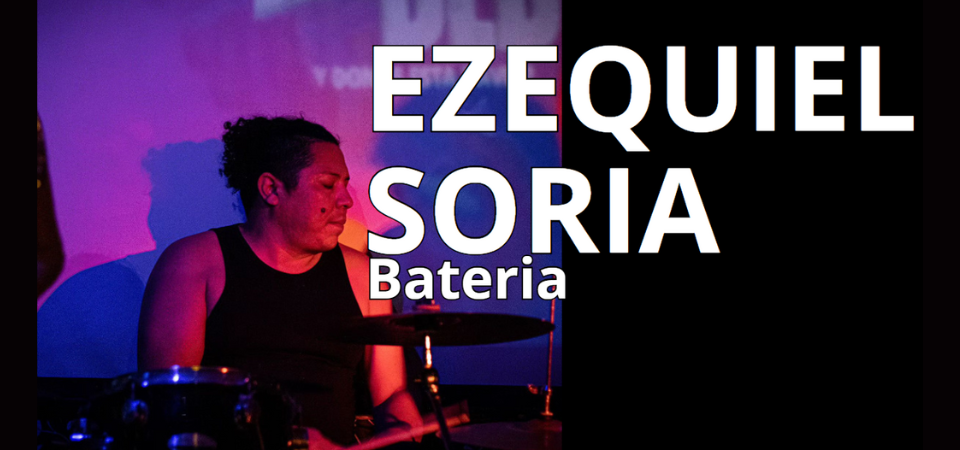
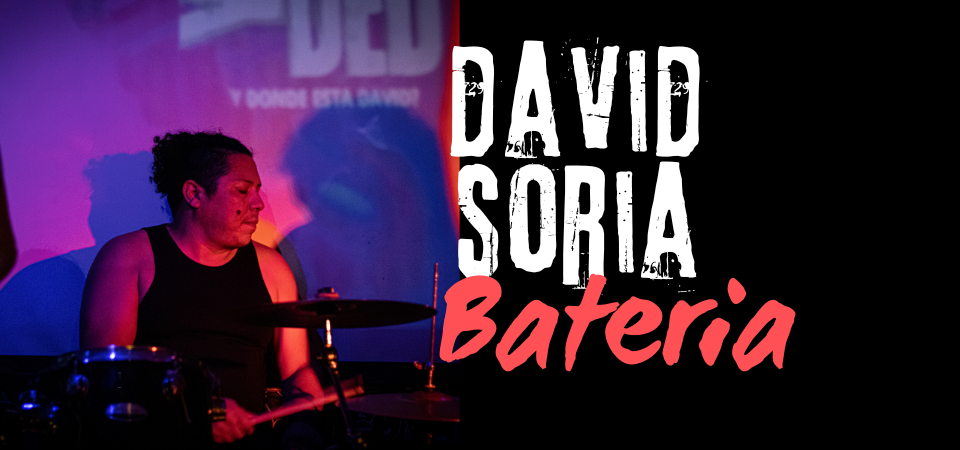
actualizacion

diff --git a/Index.html b/Index.html
@@ -43,49 +43,6 @@
 
   </ul>
 
-  <!--menu colapsable-->
-
-
-  <!-- <nav class="navbar navbar-dark bg-dark fixed-top">
-        <div class="container-fluid">
-            <a class="navbar-brand" href="#">YDED</a>
-            <button class="navbar-toggler" type="button" data-bs-toggle="offcanvas"
-                data-bs-target="#offcanvasDarkNavbar" aria-controls="offcanvasDarkNavbar"
-                aria-label="Toggle navigation">
-                <span class="navbar-toggler-icon"></span>
-            </button>
-            <div class="offcanvas offcanvas-end text-bg-dark" tabindex="-1" id="offcanvasDarkNavbar"
-                aria-labelledby="offcanvasDarkNavbarLabel">
-                <div class="offcanvas-header">
-                    <h5 class="offcanvas-title" id="offcanvasDarkNavbarLabel">Menu</h5>
-                    <button type="button" class="btn-close btn-close-white" data-bs-dismiss="offcanvas"
-                        aria-label="Close"></button>
-                </div>
-                <div class="offcanvas-body">
-                    <ul class="navbar-nav justify-content-end flex-grow-1 pe-3">
-                        <li class="nav-item">
-                            <a class="nav-link active" aria-current="page" href="#">Fechas</a>
-                        </li>
-
-                        <li class="nav-item">
-                            <a class="nav-link active" aria-current="page" href="#">La banda</a>
-                        </li>
-
-                        <li class="nav-item">
-                            <a class="nav-link active" aria-current="page" href="#">Nosotros</a>
-                        </li>
-
-                        <li class="nav-item">
-                            <a class="nav-link active" aria-current="page" href="#">rrss</a>
-                        </li>
-                    </ul>
-
-                    </form>
-                </div>
-            </div>
-        </div>
-    </nav>
--->
   <section class="container-fluid bg-black d-flex justify-content-center pt-5">
     <div>
       <img src="Imagenes/YDED.png" class="img-fluid" alt="...">
@@ -141,7 +98,7 @@
   <!--La Banda-->
   <section class="container-fluid bg-black d-flex justify-content-center pt-5">
     <div>
-      <img id="laBanda" src="Imagenes/Captura.PNG" class="img-fluid" alt="...">
+      <img id="laBanda" src="Imagenes/la banda.png" class="img-fluid" alt="...">
     </div>
   </section>
 
@@ -157,6 +114,13 @@
     <div>
 
       <img src="Imagenes/david.png" class="img-fluid pt-5" alt="...">
+    </div>
+  </section>
+
+  <section class="container-fluid bg-black d-flex justify-content-center">
+    <div>
+
+      <img src="Imagenes/leo.png" class="img-fluid pt-5" alt="...">
     </div>
   </section>
 
